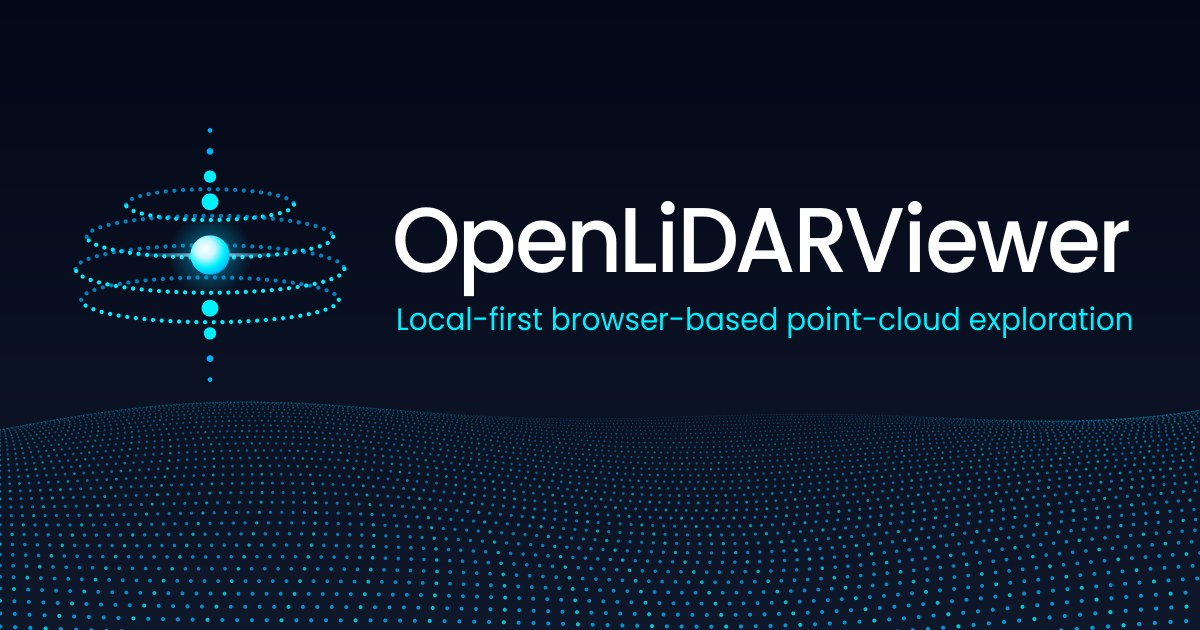
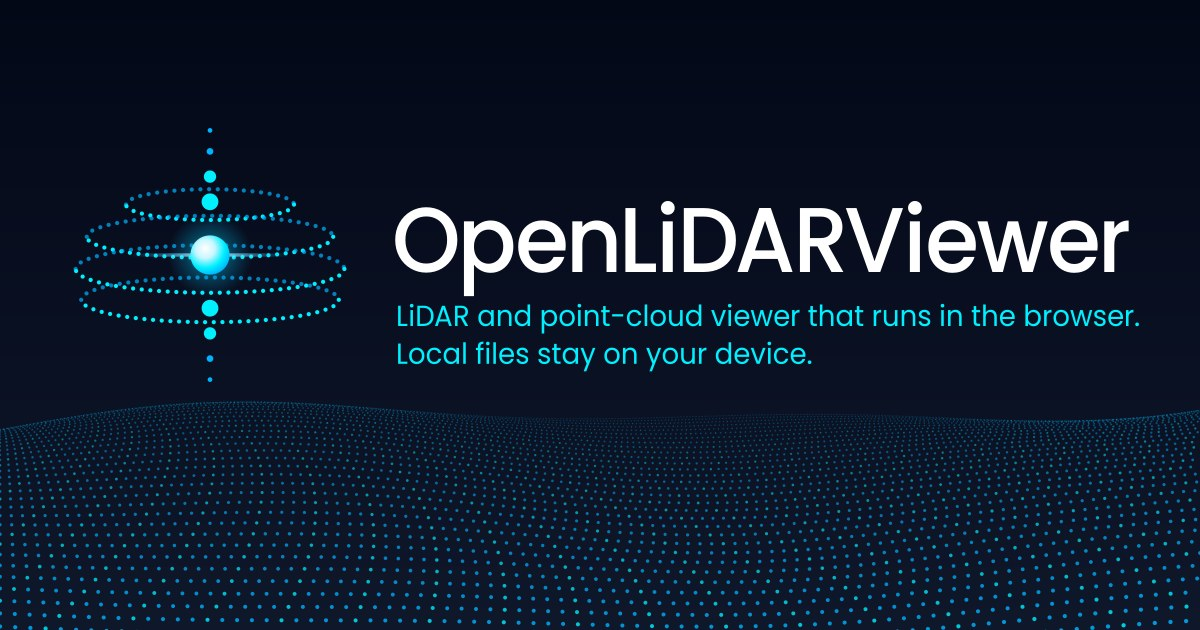
Regenerate the share card and brand lockup with the new tagline
The tagline is set on two lines and fitted to the space beside the wordmark. The lockup canvas is sized to the wordmark, which the fixed 1200 px width cut off. The app icons and favicons carry no text and are unchanged.

Changed region(s): [[0.3392, 0.4825, 0.9558, 0.6032]]

diff --git a/scripts/make-brand-rasters.py b/scripts/make-brand-rasters.py
@@ -52,7 +52,8 @@ ICE = "#C9F6FF"
 WHITE = "#FFFFFF"
 
 WORDMARK = "OpenLiDARViewer"
-TAGLINE = "Open LAS, LAZ, E57, COPC and other point-cloud files in a browser tab. Files are read on your device and are not uploaded."
+# Set as separate lines; each is shrunk to fit if it would run past the edge.
+TAGLINE = ("LiDAR and point-cloud viewer that runs in the browser.", "Local files stay on your device.")
 
 # (centre offset, rx, ry) in a 100-unit box centred on the sphere.
 RINGS = [(-18, 30, 5.5), (-6.5, 44, 7.5), (5, 48, 8.5), (16, 46, 8.0)]
@@ -198,11 +199,22 @@ def text_path(font: TTFont, text: str, size: float, x: float, baseline: float, t
     return pen.getCommands(), cx * scale
 
 
+def tagline_paths(size: float, x: float, baseline: float, max_w: float, leading: float = 1.3) -> str:
+    """Path data for every TAGLINE line, one size for all lines, fitted to max_w."""
+    font = load_font("Regular")
+    widest = max(text_path(font, line, size, x, baseline)[1] for line in TAGLINE)
+    if widest > max_w:
+        size *= max_w / widest
+    return "".join(text_path(font, line, size, x, baseline + i * size * leading)[0] for i, line in enumerate(TAGLINE))
+
+
 def brand_logo_svg() -> str:
     """Horizontal lockup on the #030817 field, all vector."""
-    w, h = 1200, 360
-    word, _ = text_path(load_font("Medium"), WORDMARK, 118, 330, 190, -0.02)
-    tag, _ = text_path(load_font("Regular"), TAGLINE, 38, 334, 262)
+    h = 360
+    word, word_w = text_path(load_font("Medium"), WORDMARK, 118, 330, 190, -0.02)
+    # The canvas is as wide as the wordmark needs, so neither line is clipped.
+    w = math.ceil(330 + word_w + 50)
+    tag = tagline_paths(38, 334, 252, w - 334 - 50)
     return (
         f'<svg xmlns="http://www.w3.org/2000/svg" viewBox="0 0 {w} {h}" width="{w}" height="{h}">'
         f"<defs>{emblem_defs('l')}</defs>"
@@ -236,7 +248,7 @@ def terrain_dots(w: int, h: int) -> str:
 def og_card_svg() -> str:
     w, h = 1200, 630
     word, _ = text_path(load_font("Medium"), WORDMARK, 92, 392, 272, -0.02)
-    tag, _ = text_path(load_font("Regular"), TAGLINE, 31, 396, 330)
+    tag = tagline_paths(31, 396, 326, 1200 - 396 - 60)
     return (
         f'<svg xmlns="http://www.w3.org/2000/svg" viewBox="0 0 {w} {h}" width="{w}" height="{h}">'
         f"<defs>{emblem_defs('o')}"
